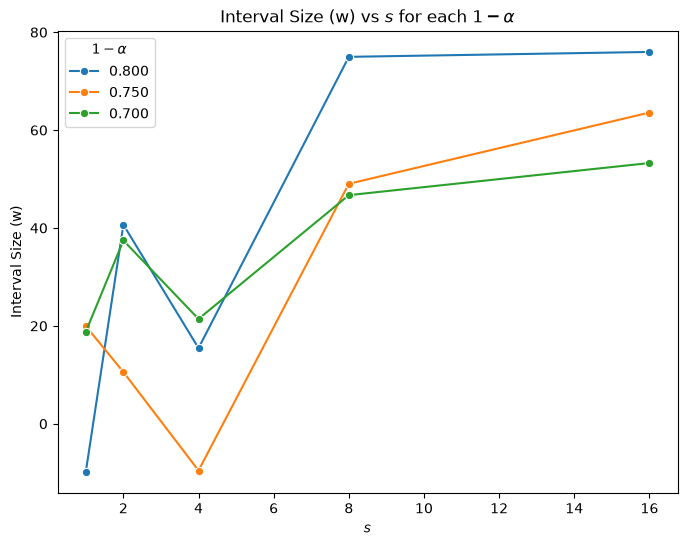
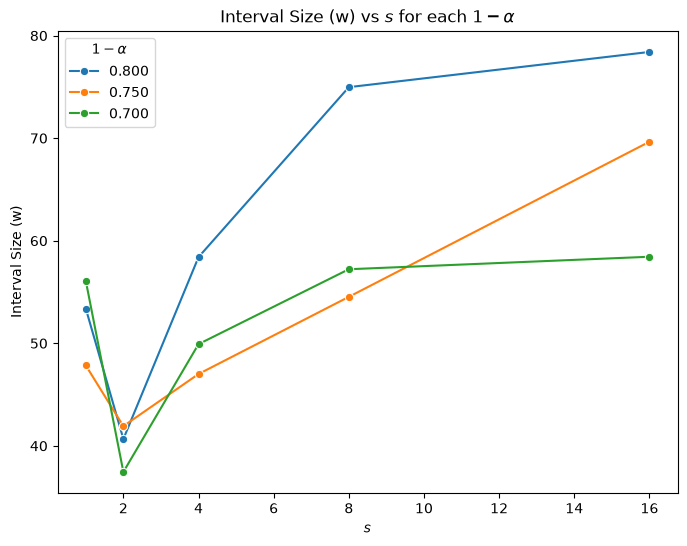
Plots for long training and capped Q_p in asgld and asgld lesstemp

diff --git a/analysis_sfcqr.py b/analysis_sfcqr.py
@@ -375,8 +375,9 @@ def run_analysis(cfg):
                     p_hi = p_hi_sorted[rand_idx,:,:,:,:]
             
 
-            all_preds_lo.append(p_lo - Q_p)
-            all_preds_hi.append(p_hi + Q_p)
+            Q_p_tilde = jnp.maximum(Q_p,0)
+            all_preds_lo.append(p_lo - Q_p_tilde)
+            all_preds_hi.append(p_hi + Q_p_tilde)
             actual_truth.append(gt[start_idx + (2*i) + 2])
 
         # 4. Coverage Calculation
